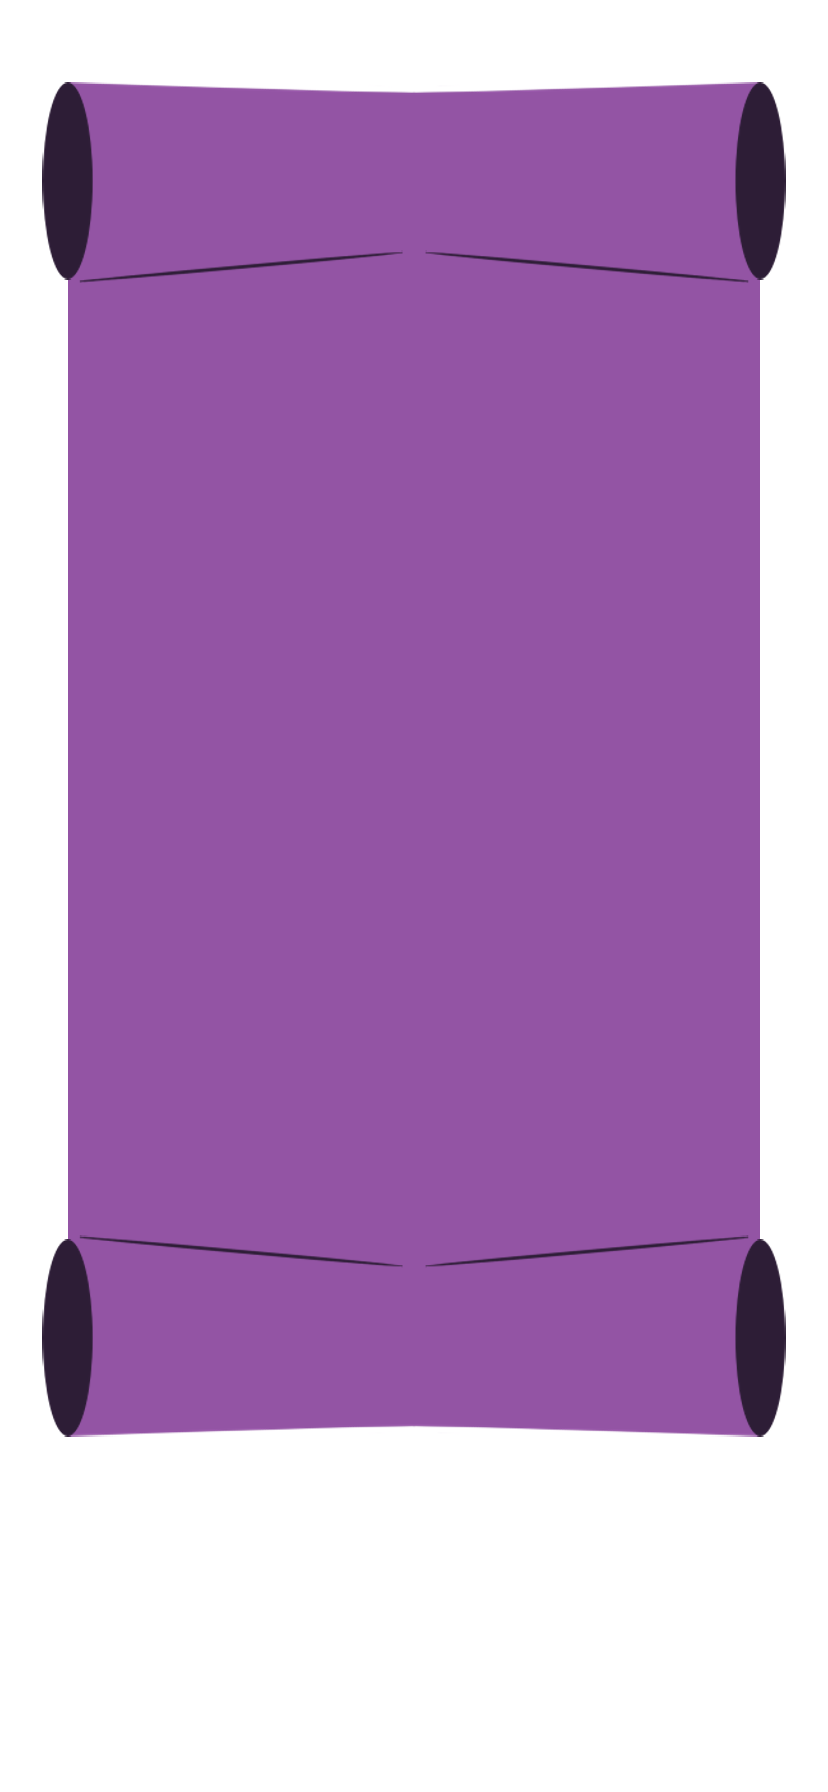
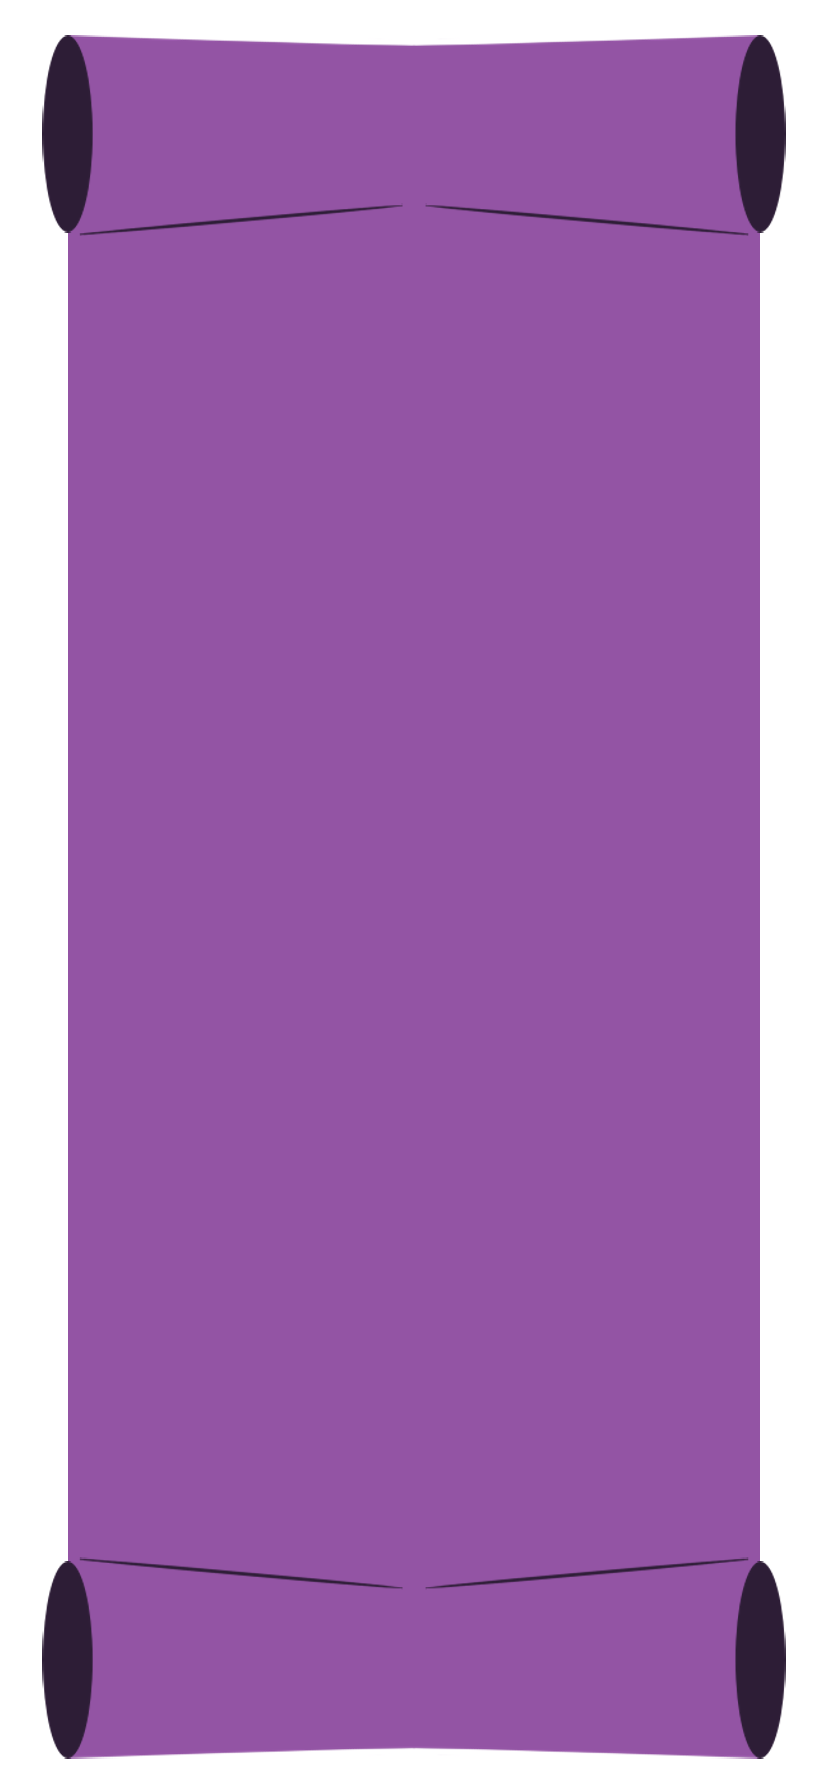
added styling to waiting pages

Changed region(s): [[0.0302, 0.6875, 0.9662, 1.0], [0.0302, 0.0, 0.9662, 0.1562]]

diff --git a/waiting.html b/waiting.html
@@ -24,20 +24,22 @@
     <!-------------------------------------->
     <!-- Header Navigation Bar -->
     <!-- <h1 class="display-4"> Hello, <span id="name-goes-here">CST!</span> </h1> -->
+    <img class="scroll" src="images/scroll_top.png">
     <section class="grid-container">
         <h1 id='waiting'>Waiting for players...</h1>
         <h1 id='player_header'>Current Players:</h1>
         <h1 id='host'></h1>
         <ul id='player_list'></ul>
-
-        <div class="grid-item">
-            <div class="bottom-navbar">
-                <a href='/'><span class="iconify" data-icon="jam:coin-f" data-inline="false"></span></a>
-                <a href='/'><span class="iconify" data-icon="eva:book-fill" data-inline="false"></span></a>
-                <a href='./profile.html'><span class="iconify" data-icon="mdi:account-box" data-inline="false"></span></a>
-            </div>
-        </div>
+        <br>
     </section>
+    <img class="scroll" src="images/scroll_bottom.png">
+    <div class="grid-item">
+        <div class="bottom-navbar">
+            <a href='/'><span class="iconify" data-icon="jam:coin-f" data-inline="false"></span></a>
+            <a href='/'><span class="iconify" data-icon="eva:book-fill" data-inline="false"></span></a>
+            <a href='./profile.html'><span class="iconify" data-icon="mdi:account-box" data-inline="false"></span></a>
+        </div>
+    </div>
     <div id="host_options"></div>
     <div class="toast">
         <div class="toast-header">

diff --git a/vote_waiting.html b/vote_waiting.html
@@ -24,19 +24,21 @@
     <!-------------------------------------->
     <!-- Header Navigation Bar -->
     <!-- <h1 class="display-4"> Hello, <span id="name-goes-here">CST!</span> </h1> -->
+    <img class="scroll" src="images/scroll_top.png">
     <section class="grid-container">
         <h1 id='waiting'>Waiting for players...</h1>
         <ul id='player_list'></ul>
-
-        <div class="grid-item">
-            <div class="bottom-navbar">
-                <a href='/'><span class="iconify" data-icon="jam:coin-f" data-inline="false"></span></a>
-                <a href='/'><span class="iconify" data-icon="eva:book-fill" data-inline="false"></span></a>
-                <a href='./profile.html'><span class="iconify" data-icon="mdi:account-box" data-inline="false"></span></a>
-            </div>
-        </div>
-
+        <br>
     </section>
+    <img class="scroll" src="images/scroll_bottom.png">
+
+    <div class="grid-item">
+        <div class="bottom-navbar">
+            <a href='/'><span class="iconify" data-icon="jam:coin-f" data-inline="false"></span></a>
+            <a href='/'><span class="iconify" data-icon="eva:book-fill" data-inline="false"></span></a>
+            <a href='./profile.html'><span class="iconify" data-icon="mdi:account-box" data-inline="false"></span></a>
+        </div>
+    </div>
 
     <script src="https://code.iconify.design/1/1.0.7/iconify.min.js"></script>
     <!----------------------------------------------->

diff --git a/results.html b/results.html
@@ -23,14 +23,15 @@
     <!-------------------------------------->
     <!-- Header Navigation Bar -->
     <!-- <h1 class="display-4"> Hello, <span id="name-goes-here">CST!</span> </h1> -->
+    <img class="scroll" src="images/scroll_top.png">
     <div>
         <h1>Results</h1>
         <ul></ul>
-        <button id="submit">Next Round</button>
 
         <script src="https://code.iconify.design/1/1.0.7/iconify.min.js"></script>
-        <img id="scroll" src="images/scroll.png">
+        <button id="submit">Next Round</button>
     </div>
+    <img class="scroll" src="images/scroll_bottom.png">
     <!----------------------------------------------->
     <!-- JS: Boostrap, Firebase, API related, JQuery    -->
     <!----------------------------------------------->

diff --git a/voting.html b/voting.html
@@ -23,6 +23,7 @@
     <!-------------------------------------->
     <!-- Header Navigation Bar -->
     <!-- <h1 class="display-4"> Hello, <span id="name-goes-here">CST!</span> </h1> -->
+    <img class="scroll" src="images/scroll_top.png">
     <div>
         <h1>Voting Time</h1>
         <form>
@@ -30,6 +31,7 @@
         </form>
         <button id="submit">SUBMIT</button>
     </div>
+    <img class="scroll" src="images/scroll_bottom.png">
 
     <script src="https://code.iconify.design/1/1.0.7/iconify.min.js"></script>
     <!----------------------------------------------->

diff --git a/styles/voting.css b/styles/voting.css
@@ -5,16 +5,15 @@ body {
 }
 
 body div {
-    grid-area: one;
-    height: 5vh;
-    width: 90vw;
+    position: relative;
+    text-align: center;
+    width: 83.5vw;
+    background-color:#9354A4;
     margin-left: auto;
     margin-right: auto;
-
-    margin-top: 6vh;
 }
 
-#scroll {
+.scroll {
     width:100%;
     margin-left: auto;
     margin-right: auto;
@@ -24,5 +23,5 @@ body div {
 #submit {
     color: #2d1d36;
     background-color:#9354A4;
-    border: none;
+    border: solid #2d1d36 2px;
 }

diff --git a/styles/waiting.css b/styles/waiting.css
@@ -4,14 +4,26 @@ body {
     background-size: 100%;
 }
 
-h1 {
-    grid-area: one;
-    height: 5vh;
-    width: 90vw;
+.grid-container {
+    position: relative;
+    text-align: center;
+    width: 83.5vw;
+    background-color:#9354A4;
+    margin-left: auto;
+    margin-right: auto;
+}
+
+.scroll {
+    width:100%;
     margin-left: auto;
     margin-right: auto;
 
-    margin-top: 6vh;
+}
+
+#submit {
+    color: #2d1d36;
+    background-color:#9354A4;
+    border: none;
 }
 
 .bottom-navbar {
